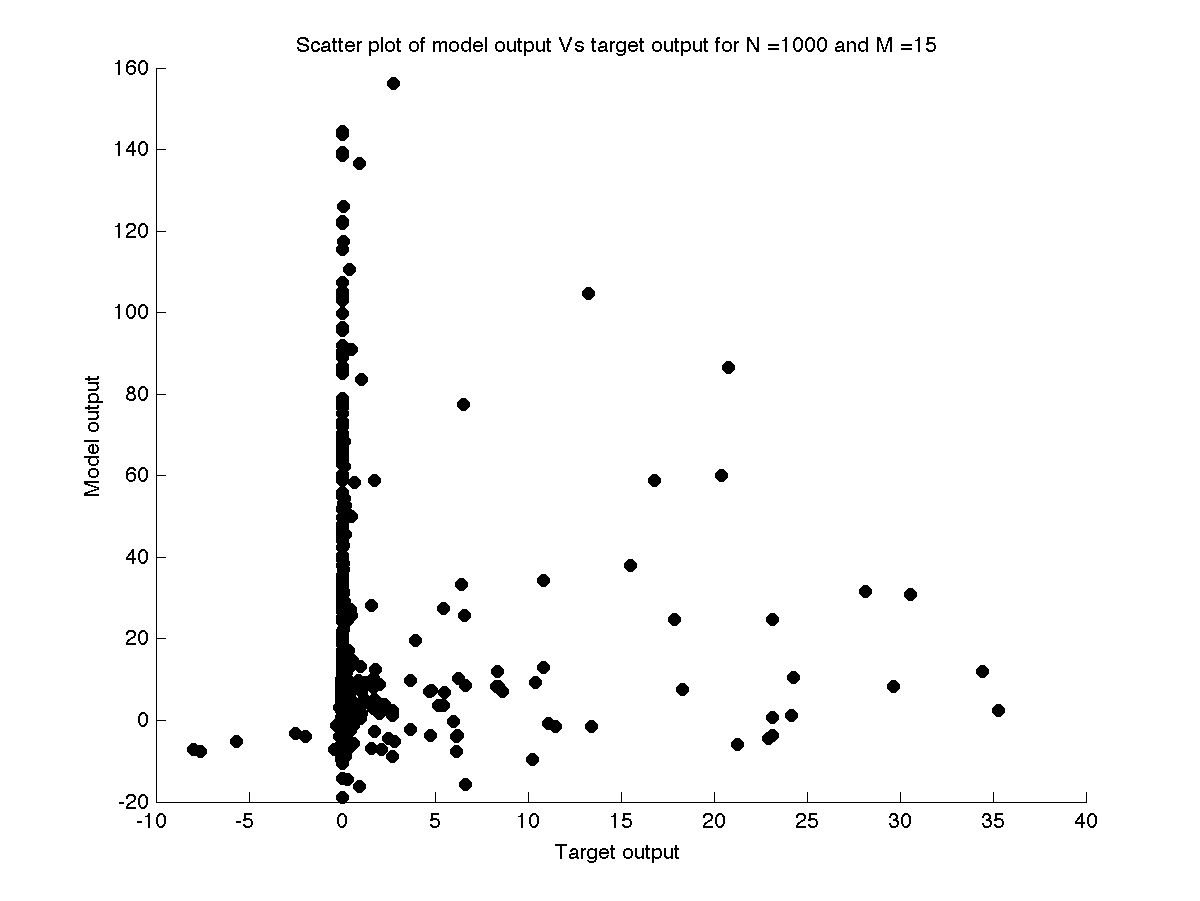
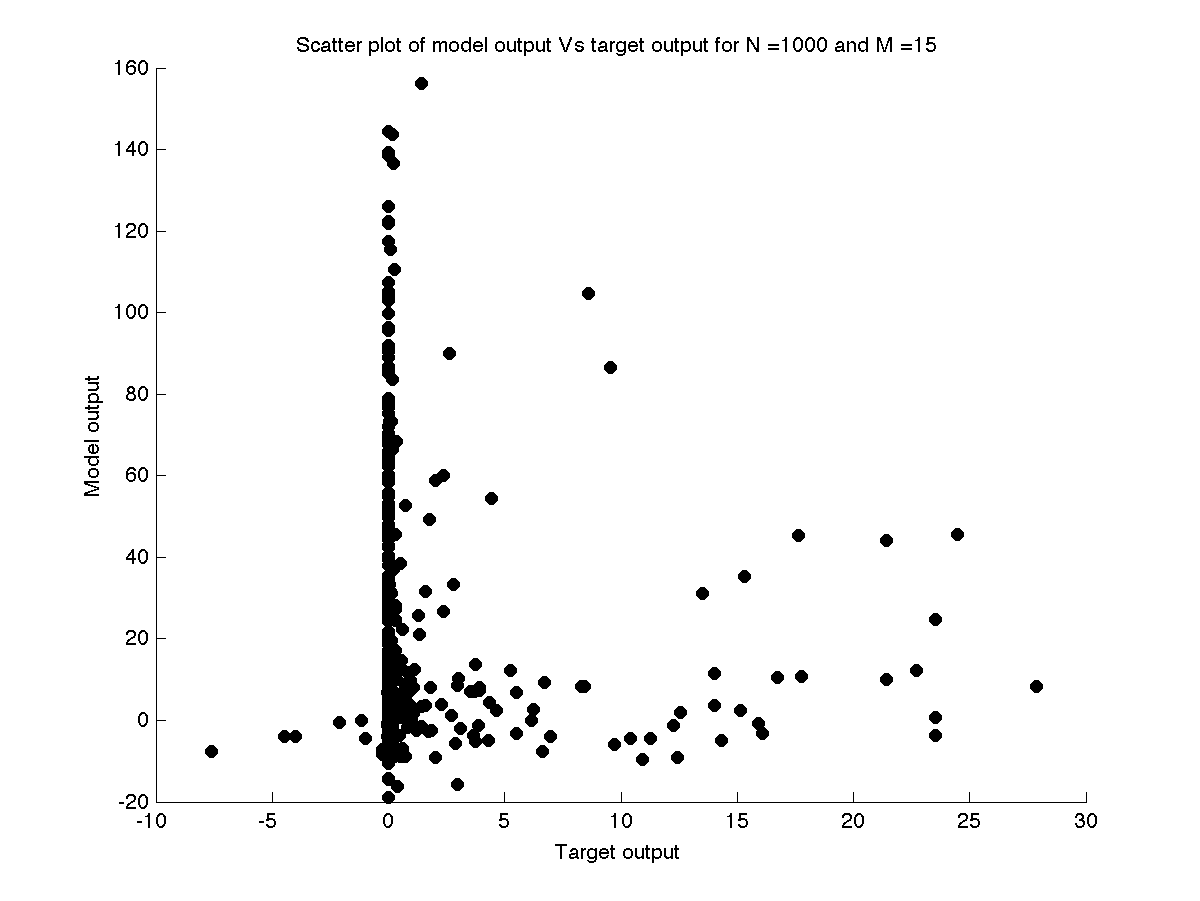
Scatter plots for D2

diff --git a/Assignment_1/Code/Q2.m b/Assignment_1/Code/Q2.m
@@ -33,19 +33,16 @@ fclose(fId);
 %{
 % Plots on varying M - note lambda = 0 here
 N_values = [100]; % training set size
-M_values = [5];  % no of basis functions
+M_values = [10];  % no of basis functions
 
 target_output = trainSet(:,3);
 for i = 1:length(N_values)
     for j = 1:length(M_values)
+        eval(sprintf('trainSet = trainSet_%d;',N_values(i)));
         [coeffs,designMat,centroids,widthParam] = surface_fit(trainSet,N_values(i),M_values(j),0);
         model_output = designMat*coeffs;
-        
-        fig1 = figure;
-        plot3(trainSet(:,1),trainSet(:,2),trainSet(:,3),'ro');
-        %, axis([-90,130,-20,150,-10,80]
-        
-        [x1,x2] = meshgrid(linspace(-20,10));
+            
+        [x1,x2] = meshgrid(linspace(-10,10));
         y = zeros(size(x1,1),size(x1,2));
         basisVec = zeros(M_values(j),1);
         for k = 1:size(x1,1)
@@ -56,6 +53,12 @@ for i = 1:length(N_values)
                 y(k,l) = basisVec'*coeffs;
             end
         end
+        
+        fig1 = figure;
+        plot3(trainSet(:,1),trainSet(:,2),trainSet(:,3),'ro');
+        axis([-10,10,-10,10,min(y(:)),max(y(:))]);
+        hold on;
+        
         surf(x1,x2,y);
         %legend('t','y(x,w)');
     end
@@ -119,21 +122,22 @@ legend('show');
 saveas(gcf,'Plots_2/RMS/RMS_lambda_1000.png');
 %}
 
-%%%%%%%%%%%%SCATTER Plots%%%%%%%%%%%%%%%
+%%%%%%%%%%%% SCATTER Plots %%%%%%%%%%%%%%%
 
 % Scatter plots for varying N
 
-n_range = [100,1000];
-m_range = [9,15,40];
+%{
+n_range = [1000];
+m_range = [300];
 
 for i = 1:length(n_range)
     for j = 1:length(m_range)
         N = n_range(i);
-        M = m_range(i);
+        M = m_range(j);
         fig1 = figure(1);
         b = strcat('Scatter plot of model output Vs target output for N = ',int2str(N),' and M = ',int2str(M));
         
-        eval(sprintf('trainSet = trainSet_%d',N));
+        eval(sprintf('trainSet = trainSet_%d;',N));
         [coeffs,designMat,centroids,widthParam] = surface_fit(trainSet,N,M,0);
         model_output = designMat*coeffs;
         target_output = trainSet(:,3);
@@ -146,3 +150,60 @@ for i = 1:length(n_range)
         saveas(fig1,strcat('Plots_2/Scatter/VaryingN/VaryingN_N',int2str(N),'M',int2str(M),'.png'));
     end
 end 
+%}
+
+% Scatter plots for varying M
+
+%{
+n_range = [100];
+m_range = [100];
+
+for i = 1:length(n_range)
+    for j = 1:length(m_range)
+
+        N = n_range(i);
+        M = m_range(j);        
+        
+        fig1 = figure(1);
+        b = strcat('Scatter plot of model output Vs target output for N = ',int2str(N),' and M = ',int2str(M));
+        
+        eval(sprintf('trainSet = trainSet_%d;',N));
+        [coeffs,designMat,centroids,widthParam] = surface_fit(trainSet,N,M,0);
+        model_output = designMat*coeffs;
+        target_output = trainSet(:,3);
+        scatter(model_output,target_output,'ko','filled');        
+        
+        xlabel('Target output');
+        ylabel('Model output');
+        title(b);
+        saveas(fig1,strcat('Plots_2/Scatter/VaryingM/VaryingM_N',int2str(N),'M',int2str(M),'.png'));
+    end
+end
+
+%}
+
+% Scatter plots for varying lambda
+
+N = 100;
+M = 100;
+lambda_range = [0,10^(-6),10^(-5),10^(-4),10^(-3),10^(-2),10^(-1),1];
+
+for i = 1:length(lambda_range)
+    
+    lambda = lambda_range(i);
+        
+    fig1 = figure(1);
+    b = strcat('Scatter plot of model output Vs target output for N = ',int2str(N),' and M = ',int2str(M),' lambda = ',num2str(lambda));
+        
+    eval(sprintf('trainSet = trainSet_%d;',N));
+    [coeffs,designMat,centroids,widthParam] = surface_fit(trainSet,N,M,lambda);
+    model_output = designMat*coeffs;
+    target_output = trainSet(:,3);
+    scatter(model_output,target_output,'ko','filled');        
+        
+    xlabel('Target output');
+    ylabel('Model output');
+    title(b);
+    saveas(fig1,strcat('Plots_2/Scatter/Varying_lambda/Varyinglambda_N',int2str(N),'M',int2str(M),'lambda',num2str(lambda),'.png'));    
+  
+end

diff --git a/Assignment_1/Code/surface_fit.m b/Assignment_1/Code/surface_fit.m
@@ -1,19 +1,22 @@
 function [coeffs,designMat,centroids,widthParam] = surface_fit(trainSet,N,M,lambda)
 
 % perform k-means clustering
-[idx,centroids] = kmeans(trainSet(:,1:2),M);
+[idx,centroids] = kmeans(trainSet(:,1:2),M,'replicate',50);
+
+scatter(trainSet(:,2),trainSet(:,1),[],idx);
 
 % setting width parameter: 
 % http://chem-eng.utoronto.ca/~datamining/dmc/artificial_neural_network_rbf.htm
 [IDX,D] = knnsearch(centroids,centroids,'K',3);
-
 widthParam = (D(:,2)+D(:,3))/2; % s is set to be the average distance from the two nearest neighboring cluster centers
+
+%widthParam = ones(M,1)*1;
 
 % constructing design matrix
 designMat = zeros(N,M);
 for i=1:N
     for j=1:M
-        designMat(i,j) = exp(-norm(trainSet(i,1:2)-centroids(j,:))^2)/widthParam(j,1);
+        designMat(i,j) = exp(-(norm(trainSet(i,1:2)-centroids(j,:)))^2)/widthParam(j,1);
     end
 end
 
